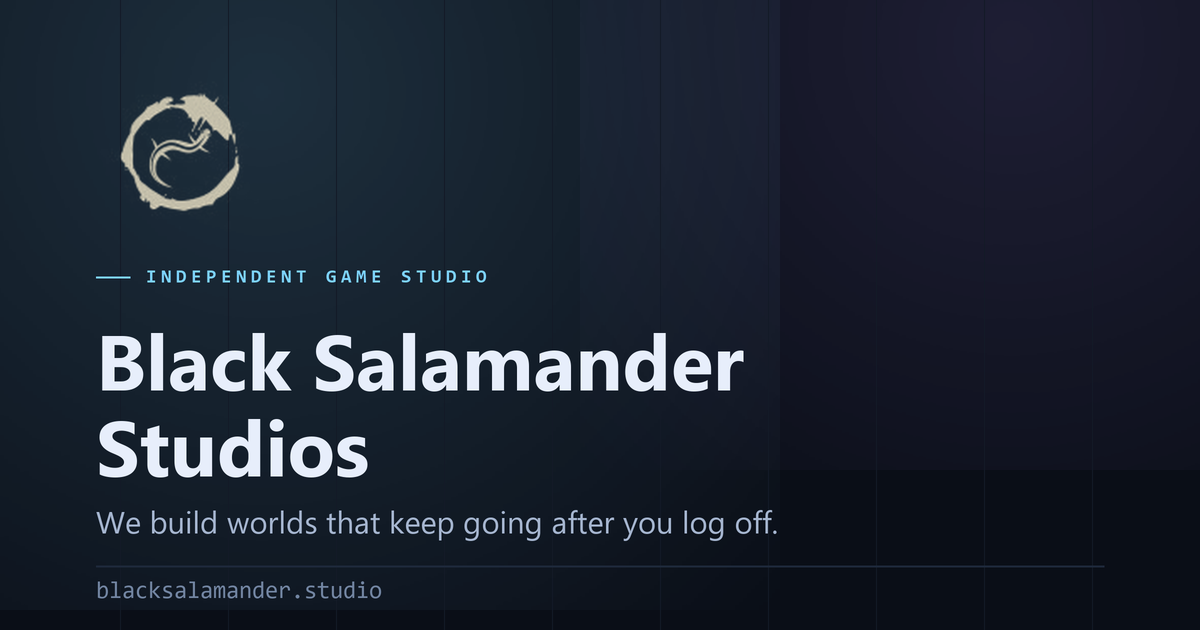
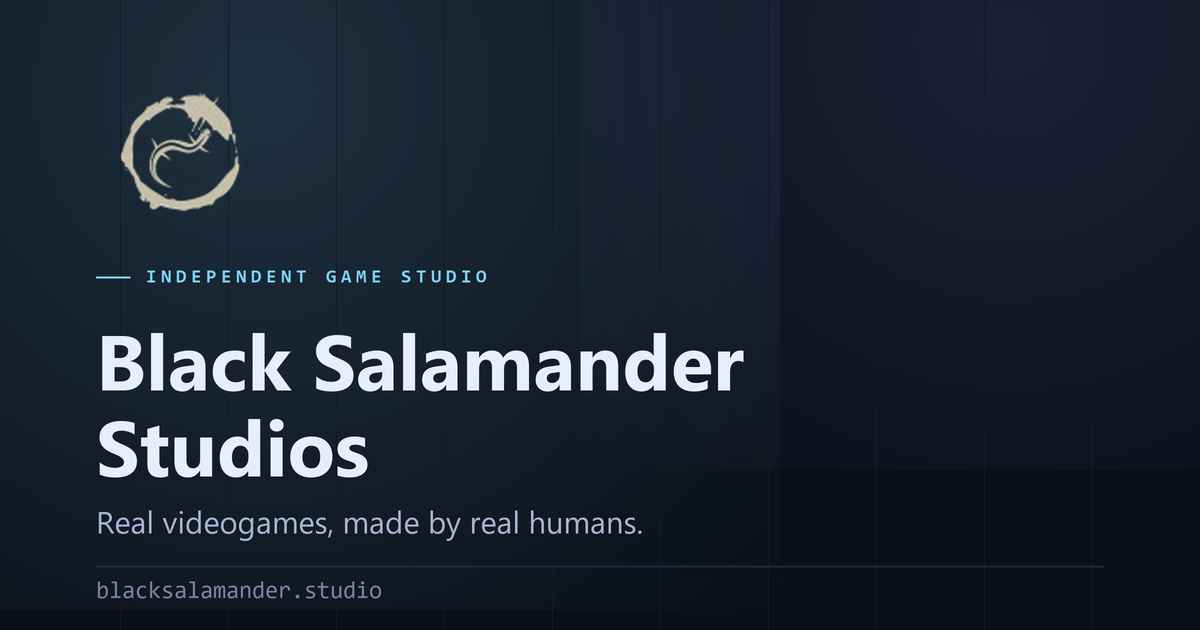
Lead with the studio tagline
Promotes "Real videogames, made by real humans." from the Discord description
to the hero headline, and folds the old headline into the opening of the lede
so the product description is not lost. The OG card picks up the same line.

Widens the headline measure from 16ch to 18ch so the new line breaks on its
comma instead of stranding the last word.

Changed region(s): [[0.0617, 0.8143, 0.6475, 0.8746]]

diff --git a/public/index.html b/public/index.html
@@ -47,11 +47,11 @@
   <section class="hero">
     <div class="wrap hero-inner">
       <p class="eyebrow">Independent game studio</p>
-      <h1>We build worlds that keep going after you log off.</h1>
+      <h1>Real videogames, made by real humans.</h1>
       <p class="lede">
-        Black Salamander Studios makes multiplayer role playing games and the server
-        technology that holds them together. Persistent state, systemic NPCs, and
-        worlds meant to be lived in rather than reset.
+        We build worlds that keep going after you log off: multiplayer role playing
+        games and the server technology that holds them together. Persistent state,
+        systemic NPCs, and worlds meant to be lived in rather than reset.
       </p>
       <p class="hero-actions">
         <a class="btn btn-primary" href="#projects">See the projects</a>

diff --git a/public/assets/styles.css b/public/assets/styles.css
@@ -215,9 +215,11 @@ a { color: inherit; }
   opacity: 0.7;
 }
 
+/* The measure is set so the headline breaks on its comma rather than stranding
+   the last word on a line of its own. */
 .hero h1 {
   font-size: clamp(2.1rem, 6.2vw, 3.7rem);
-  max-width: 16ch;
+  max-width: 18ch;
   margin-bottom: 24px;
 }
 

diff --git a/tools/make_og.py b/tools/make_og.py
@@ -98,7 +98,7 @@ def main():
     d.text((M, 306 * SS), "Black Salamander", font=f_title, fill=TEXT)
     d.text((M, 392 * SS), "Studios", font=f_title, fill=TEXT)
 
-    d.text((M, 500 * SS), "We build worlds that keep going after you log off.",
+    d.text((M, 500 * SS), "Real videogames, made by real humans.",
            font=f_tag, fill=DIM)
 
     d.line([(M, 566 * SS), ((W - 96) * SS, 566 * SS)], fill=(30, 41, 59), width=2 * SS)
